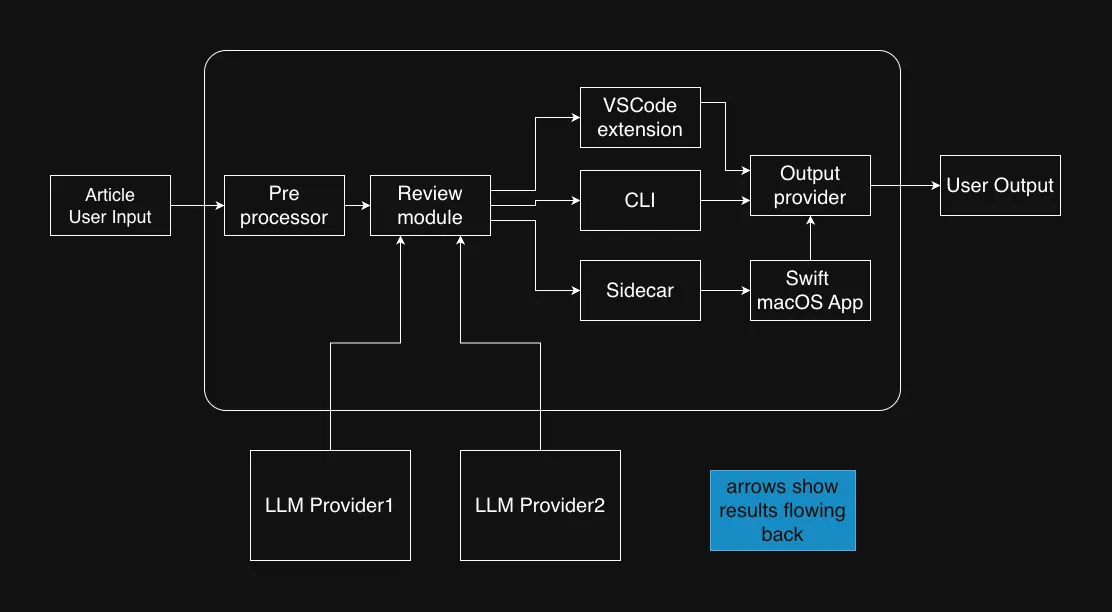
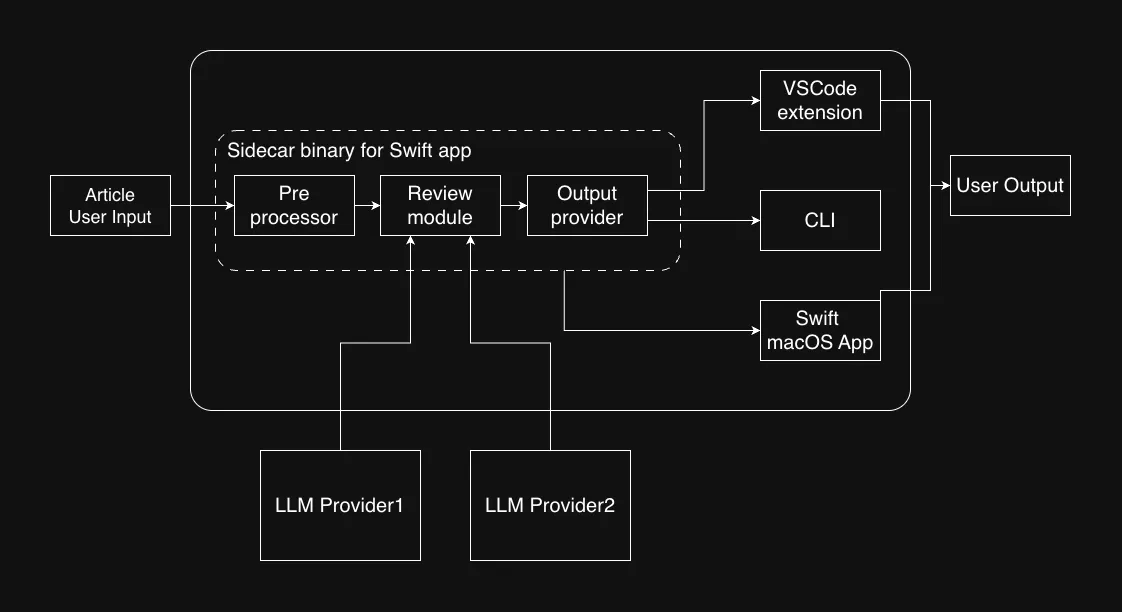
Second thought architecture update

diff --git a/src/content/projects/second-thought/architecture.md b/src/content/projects/second-thought/architecture.md
@@ -6,33 +6,65 @@ order: 1 # a sorrend még nincs eldöntve
 draft: false
 ---
 
-<!--
-VÁZ — tartalom még nincs.
-
-Anyag (kontextus-dokumentum):
-  4. pont — a pipeline: parse → segment → review → guard → diff
-  5. pont — rétegek, port, adapterek, reuse-boundary (Swift sidecar)
-  6. pont — minták ott, ahol problémát oldanak meg, nem katalógusként
-
-Nyitott:
-  • Pipeline vs. architektúra: egy oldal két szekcióval, vagy két külön aloldal?
-  • Szűkített editek (8. pont): itt teljes leírás, vagy a dogfood oldalon, és innen csak link?
-  • Kulcsdöntések (11. pont) közül ide tartozók: védett tartomány a Contextben,
-    segment vs. protectedRanges (nem DRY), közös messages.ts, két külön passz.
-
-Kép: a hexagonális ábra-terv.
--->
-
 ## Current architecture
+
+Second Thought's current architecture is built on ports and adapters, around a pure core.
+
+### Frontends
+
+There are two frontends with the same functionality: the **CLI** and the **VS Code extension**.
+Each one creates the LLM client and the passes, calls `review()`, and shows the result to the user:
+the CLI as text in the terminal, the extension as underlines and quick fixes.
+
+### Core
+
+`review()` is the Context of the Strategy pattern and holds the core business logic. Its input is an article.
+It runs the passes, then applies the system-wide rules: it drops every suggestion that touches a protected range
+(this is the guard), stops early on systemic LLM errors (fail-fast), and builds the diff.
+
+### Passes
+
+Each pass has its own system prompt. It gets the prose from the Segmenter, sends it to the LLM through the
+`LlmClient` interface, and turns the reply into findings. The language pass also narrows each fix to the words
+that actually changed.
+
+### Port and adapter
+
+`LlmClient` is the port: the core only knows this interface, not the provider. The Gemini adapter implements it:
+it talks to Gemini over HTTPS, retries on 429 and network errors, and translates the provider's errors into our own
+error kinds, so the raw response never crosses the port.
 
 <a href="/projects/second-thought/CurrentArchitecture.webp" target="_blank" rel="noopener" class="block cursor-zoom-in my-8" title="Open full-size image"><img src="/projects/second-thought/CurrentArchitecture.webp" width="1057" height="959" loading="lazy" class="w-full h-auto rounded-lg m-0" alt="Current architecture. The article enters through the VS Code extension or the CLI, which call Review. Review uses the Segmenter and two passes, Language and Editorial, which implement the Passes interface. The passes depend on the LLMClient interface, implemented by the Gemini LlmClient, which calls LLM Provider 1 over HTTPS. The CLI and the extension each create the Gemini client. A second provider is planned." /></a>
 
 ## Planned architecture
-### Review module plane
-In the next version I plan to make a separate module for review, passes and elements. I would like to make one biger mododul. It would be a bit monolitic, but in this phase of the project I think it is acceptable.
+When I made the current architecture diagram for the project page, I noticed some weaknesses:
+- Parsing happens multiple times (in the review and in the passes). This is not efficient.
+- The frontends know about the exact LLM client. This makes the architecture inflexible.
+
+So I started to plan the next architecture.
+
+### Review module plan
+In the next version I plan to make a separate module for the review, the passes and their elements. I would like to make one bigger module. It would be a bit monolithic, but in this phase of the project I think it is acceptable.
+The module would make the architecture more flexible, and it would hide the exact LLM from the frontends.
+I haven't decided yet whether I will use an API or keep the review as a strategy.
+
+#### Technical Fact Check Pass
+I also plan a new pass to check the technical facts. It would be an element with explanations, source links and proof of truth.
+This will be a new functionality to help me check whether my articles are correct enough.
+
 <a href="/projects/second-thought/PlannedArchitecture-ReviewModule.webp" target="_blank" rel="noopener" class="block cursor-zoom-in my-8" title="Open full-size image"><img src="/projects/second-thought/PlannedArchitecture-ReviewModule.webp" width="682" height="822" loading="lazy" class="w-full h-auto rounded-lg m-0" alt="Planned review module. Review collects results from three passes, Language, TechnicalFactCheck and Editorial, which implement the Passes interface and use the LLMClient interface. Two clients, Gemini and a second one, implement LLMClient, each calling its own LLM provider over HTTPS." /></a>
 
 ### Application architecture
-With the new module I think will be easiear to attach new UI.
-I also plan a preprocessor that can make the segments and usual language lector.
+
+With the new module, I think it will be easier to attach new UIs.
+I also plan a preprocessor that would, for example, create the segments and run a traditional language check.
+
+#### Swift application
+
+I plan a Swift application for the project. It would run the same TypeScript core as a sidecar binary, so I don't have to rewrite the review logic in Swift.
+
+#### Output provider
+
+A planned output provider would make the diffs and maybe the format for the frontends.
+
 <a href="/projects/second-thought/PlannedArchitecture.webp" target="_blank" rel="noopener" class="block cursor-zoom-in my-8" title="Open full-size image"><img src="/projects/second-thought/PlannedArchitecture.webp" width="1132" height="612" loading="lazy" class="w-full h-auto rounded-lg m-0" alt="Planned architecture. The article goes through the Segmenter into the Review module, which uses two LLM providers. Results go to the VS Code extension and the CLI, then through an Output provider to the user." /></a>

diff --git a/src/content/projects/second-thought/lessons.md b/src/content/projects/second-thought/lessons.md
@@ -41,5 +41,5 @@ I used Claude for the project. Here is my trade-off. It relates to how I used it
 ## Architecture before implementation
 
 After I stopped to make the project site, I had time to understand the architecture. Unfortunately, at first I only planned the functionality and then started development. With this method I didn't have time to step back and see the bigger picture.
-I made a [drawing of the architecture](/projects/second-thought/architecture). While I was drawing it, I had time to think about it. This led me to plan the next architecture version of the app. It also revealed some weaknesses and possibilities.
+I made a [drawing of the architecture](/projects/second-thought/architecture). While I was drawing it, I had time to think about it. This led me to plan the next architecture version of the app. It also revealed some [weaknesses and possibilities](/projects/second-thought/architecture#planned-architecture).
 I like architectures, and I decided that I will plan them before implementing a project and stop to improve them from time to time before continuing.
